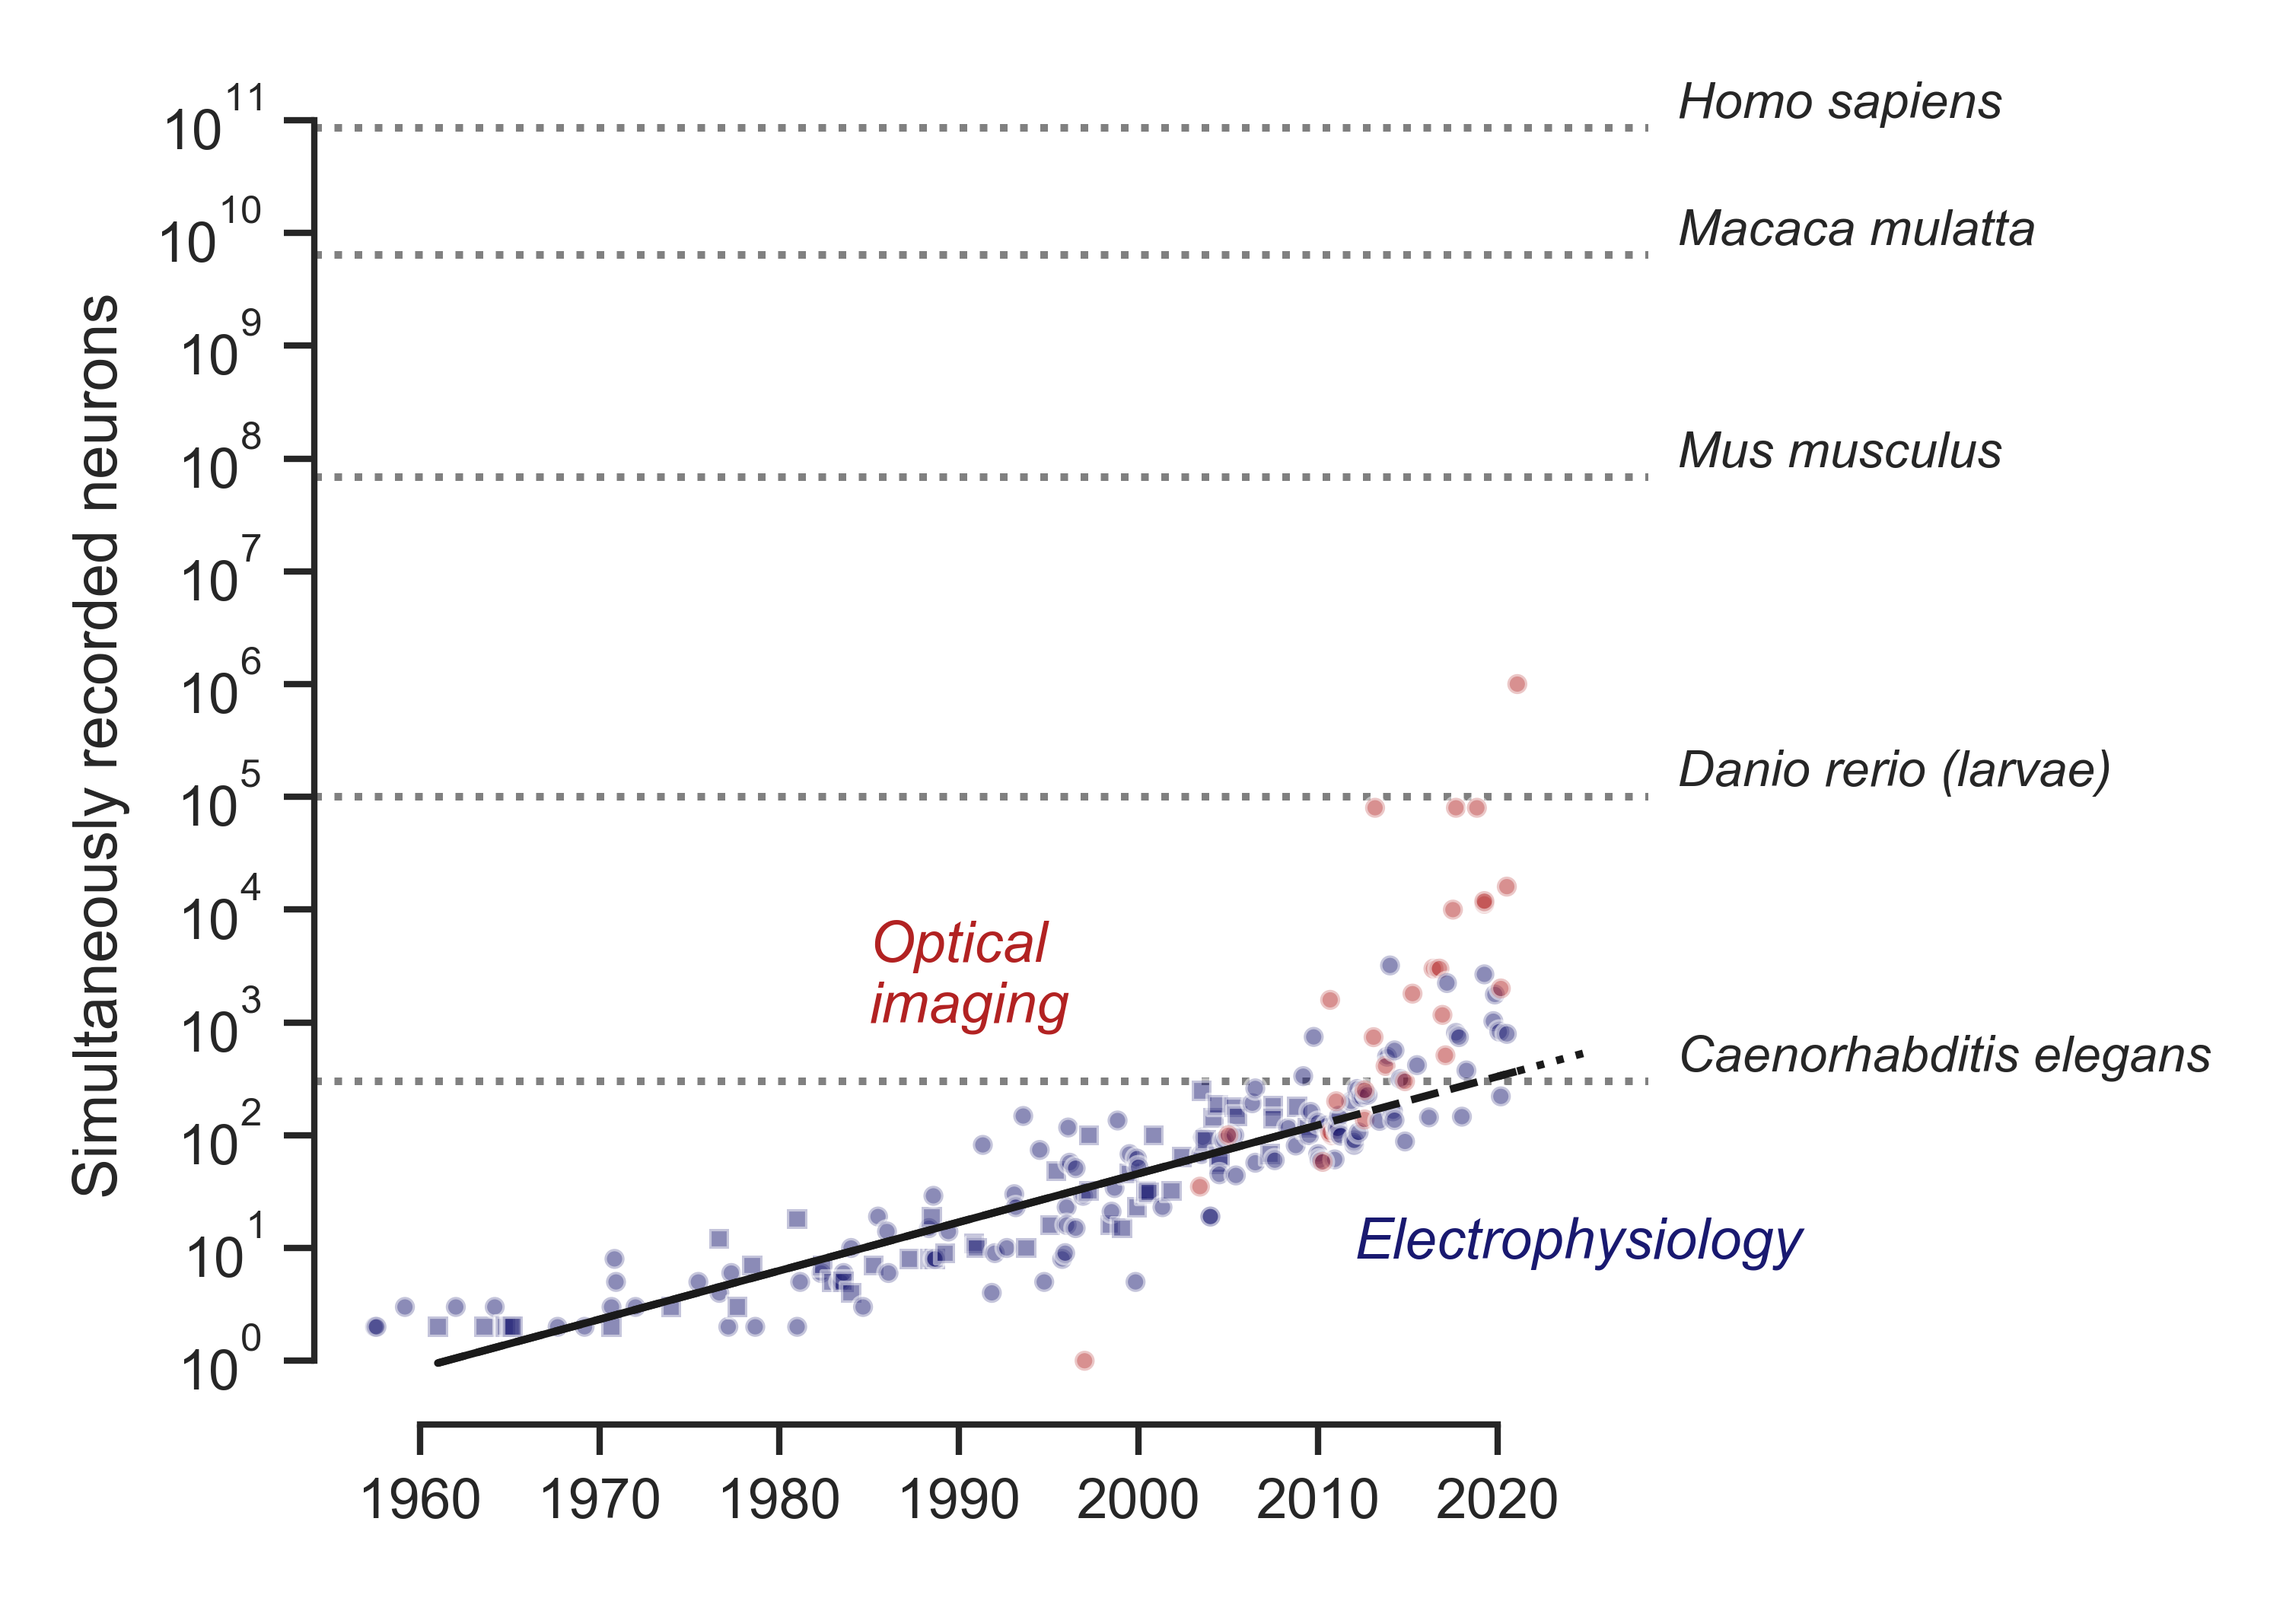
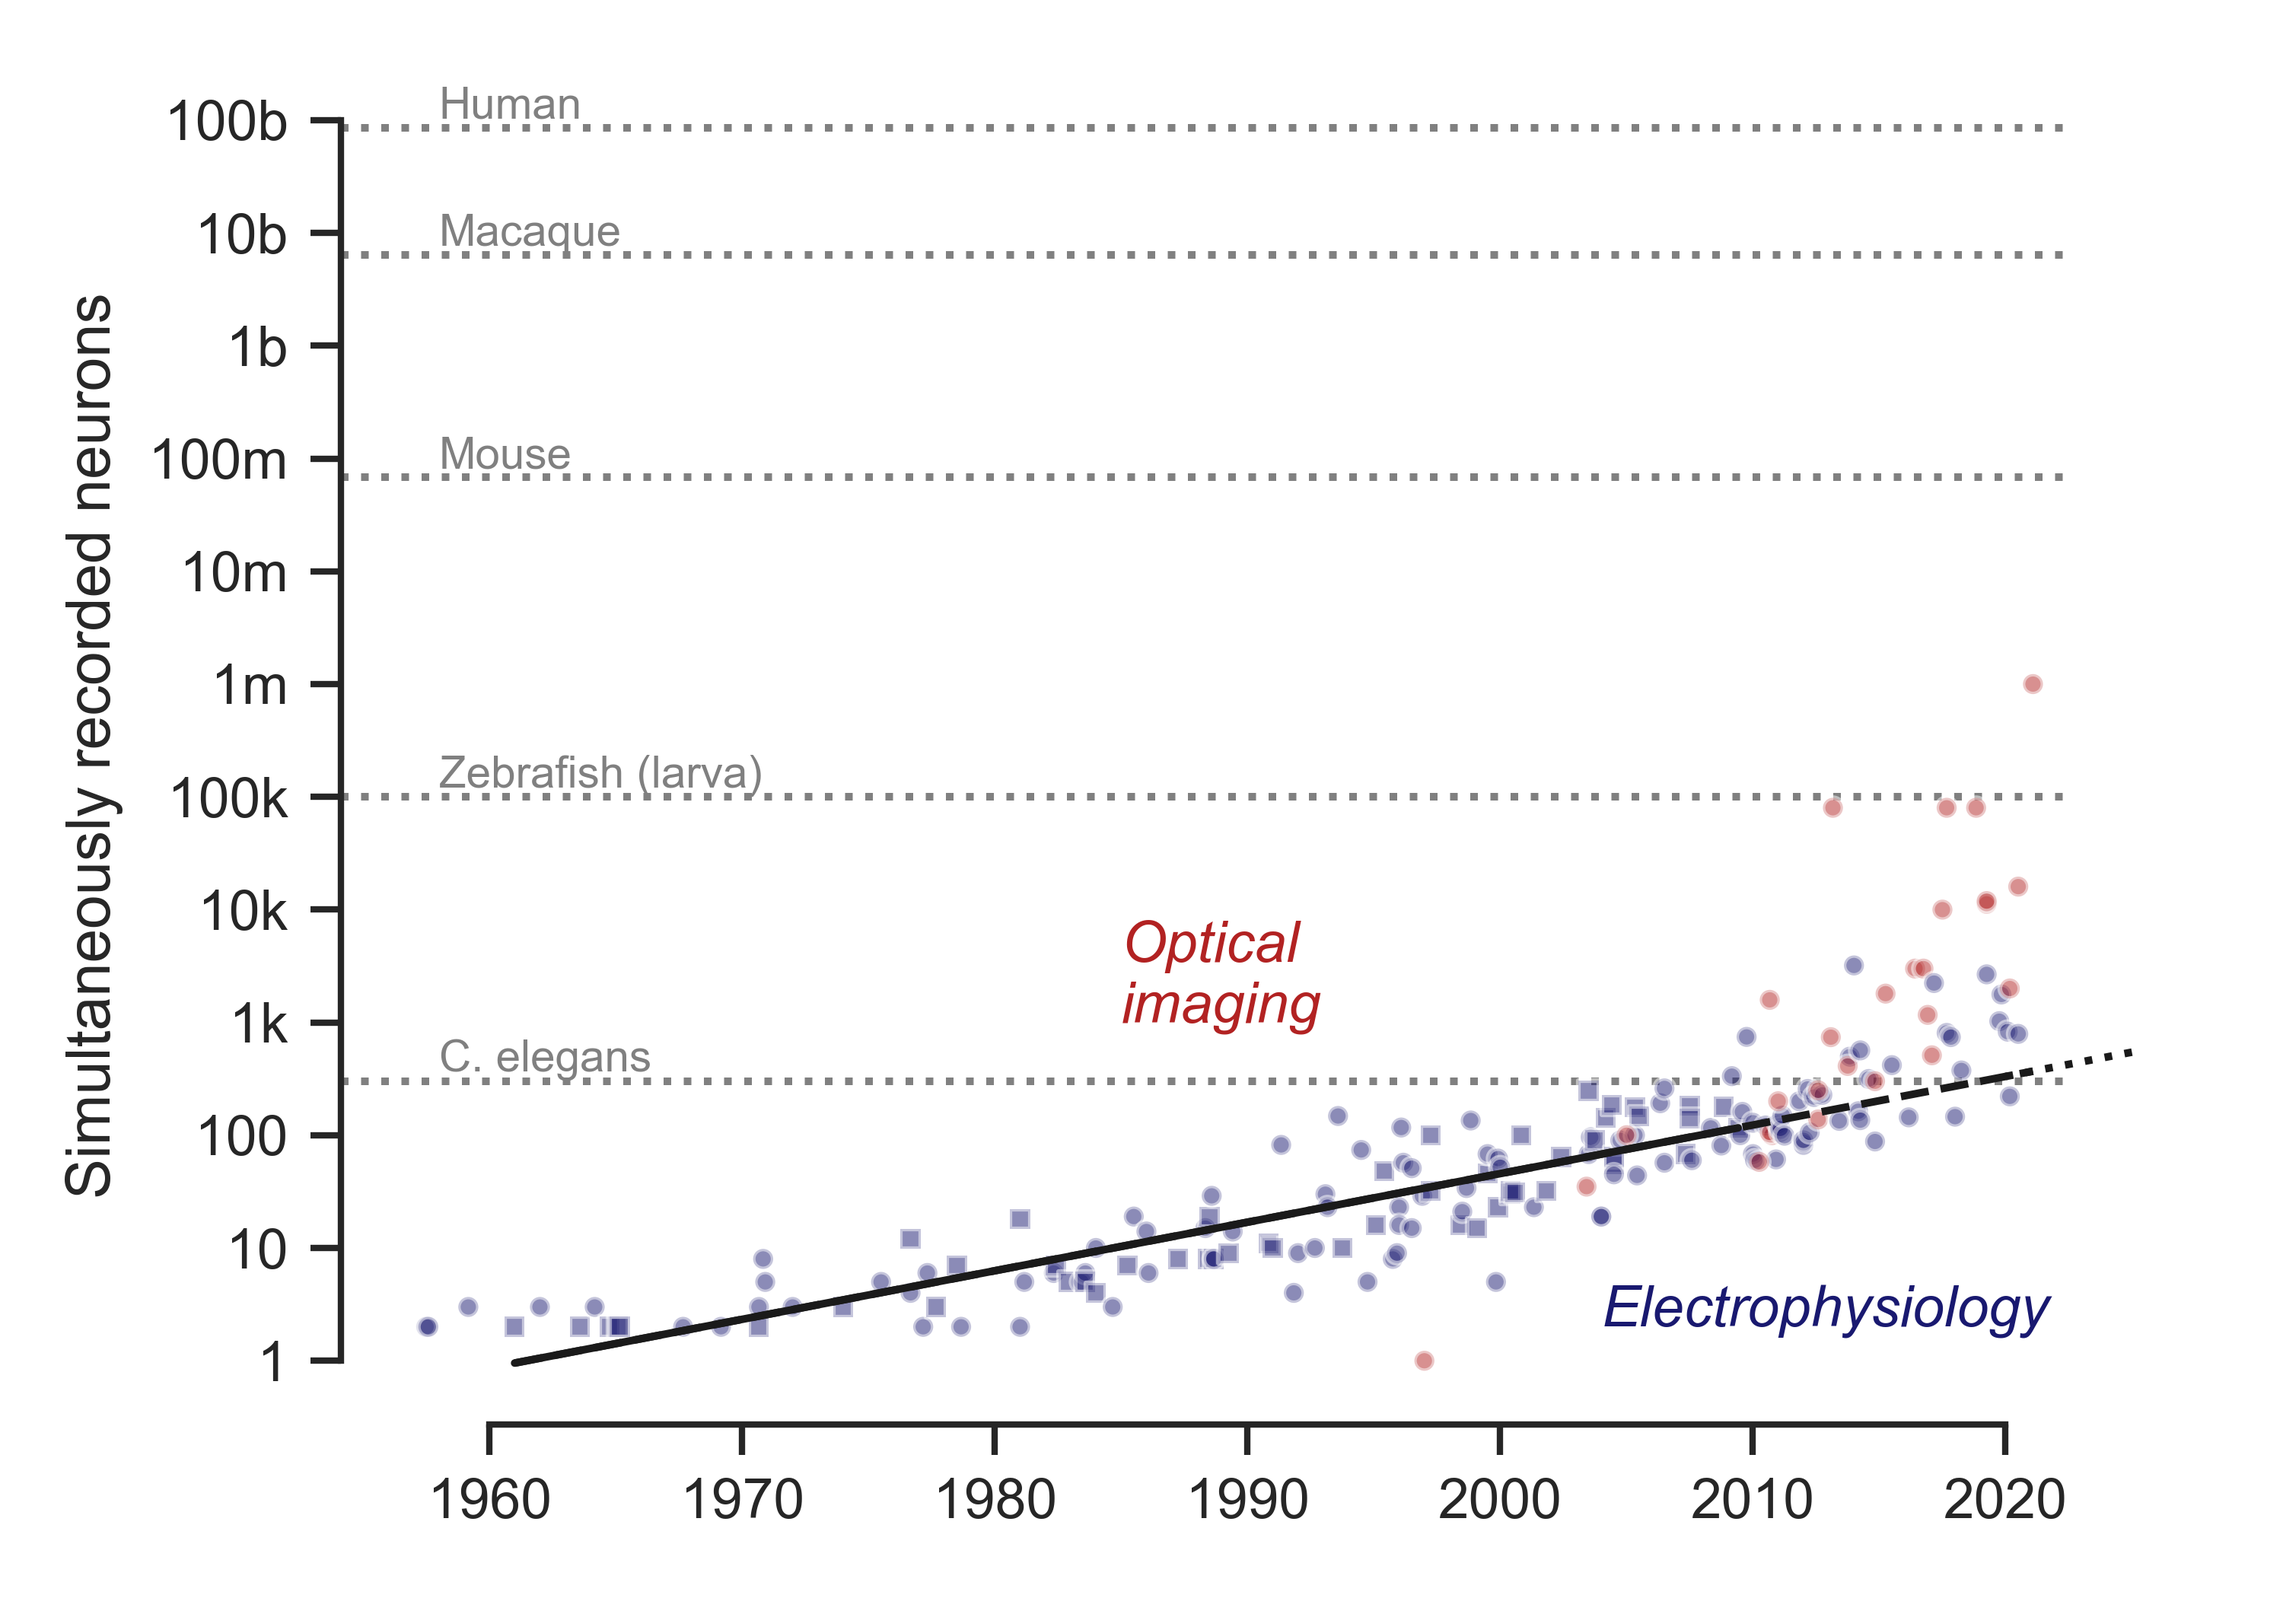
aesthetics improvements

diff --git a/largescale_recordings.py b/largescale_recordings.py
@@ -84,18 +84,18 @@ yvec2 = res2.predict(sm.add_constant(xvec1))
 # ====================================== #
 
 # Herculano-Houzel et al. 2015, 10.1159/000437413
-nneurons = [{'species':'Caenorhabditis elegans', 'name':'Worm',
+nneurons = [{'species':'Caenorhabditis elegans', 'name':'C. elegans',
              'nneurons_low':302, 'nneurons_high':302},
-            {'species': 'Danio rerio (larvae)', 'name': 'Larval zebrafish',  # https://elifesciences.org/articles/28158
+            {'species': 'Danio rerio (larvae)', 'name': 'Zebrafish (larva)',  # https://elifesciences.org/articles/28158
              'nneurons_low': 100000, 'nneurons_high': 100000},
-            # {'species':'Drosophila melanogaster', 'name':'Fly', # https://doi.org/10.1016/j.cub.2010.11.056
+            # {'species':'Drosophila melanogaster', 'name':'Drosophila', # https://doi.org/10.1016/j.cub.2010.11.056
             #  'nneurons_low':135000, 'nneurons_high':135000},
             # https://www.ncbi.nlm.nih.gov/pmc/articles/PMC3597383/
             {'species':'Mus musculus', 'name':'Mouse', # Vincent et al 2010: 7.5x10^7
              'nneurons_low':67873741-10406194, 'nneurons_high':67873741+10406194},
             # {'species':'Rattus norvegicus', 'name':'Rat',
             #  'nneurons_low':188867832-12622383, 'nneurons_high':188867832+12622383},
-            {'species': 'Macaca mulatta', 'name': 'Monkey',
+            {'species': 'Macaca mulatta', 'name': 'Macaque',
              'nneurons_low': 6376160000, 'nneurons_high': 6376160000},
             {'species': 'Homo sapiens', 'name': 'Human',
              'nneurons_low': 86060000000-8120000000, 'nneurons_high': 86060000000+8120000000},
@@ -125,7 +125,7 @@ sns.scatterplot(data=df, x='date_num', y='neurons_log', style='Source',
                          'Rupprecht':'o', 'Charles':'o', 'Meijer':'o',
                          'Svoboda':'o'}, legend=False)
 # write labels in plot, instead of legend
-ax.text(2012, np.log(8), 'Electrophysiology',
+ax.text(2004, np.log(2), 'Electrophysiology',
         {'color':"midnightblue", 'fontsize':9, 'fontstyle':'italic'})
 ax.text(1985, np.log(1000), 'Optical\nimaging',
         {'color':"firebrick", 'fontsize':9, 'fontstyle':'italic'})
@@ -146,17 +146,21 @@ ax.plot(xvec, yvec, color='k', linestyle=':')
 # show, for each species, the range
 for a in nneurons:
     # when can we expect this species to have all its neurons recorded?
-    year = 2030
+    year = 1958
     n_neurons = np.log((a['nneurons_low'] + a['nneurons_high'])/2)
-    ax.axhline(y=n_neurons, color='grey', linestyle=':', zorder=-100)
-    ax.text(year, n_neurons, a['species'],
-            verticalalignment='bottom', fontsize=8, fontstyle='italic')
+    ax.axhline(y=n_neurons, color='grey', linestyle=':', zorder=-100, xmax=0.92)
+    ax.text(year, n_neurons, a['name'],
+            verticalalignment='bottom', fontsize=7,
+            color='grey')
 
 # layout
 yticks = np.logspace(0, 11, 12)
 ax.set(ylabel='Simultaneously recorded neurons', xlabel='',
        yticks=np.log(yticks))
+yticklabs = ['1', '10', '100', '1k', '10k', '100k', '1m', '10m', '100m', '1b', '10b', '100b']
 ax.set_yticklabels(['$\mathregular{10^{%i}}$' %np.log10(y) for y in yticks])
+ax.set_yticklabels(yticklabs)
+
 sns.despine(trim=True)
 plt.show()
 fig.savefig('scaling_figure.pdf')
